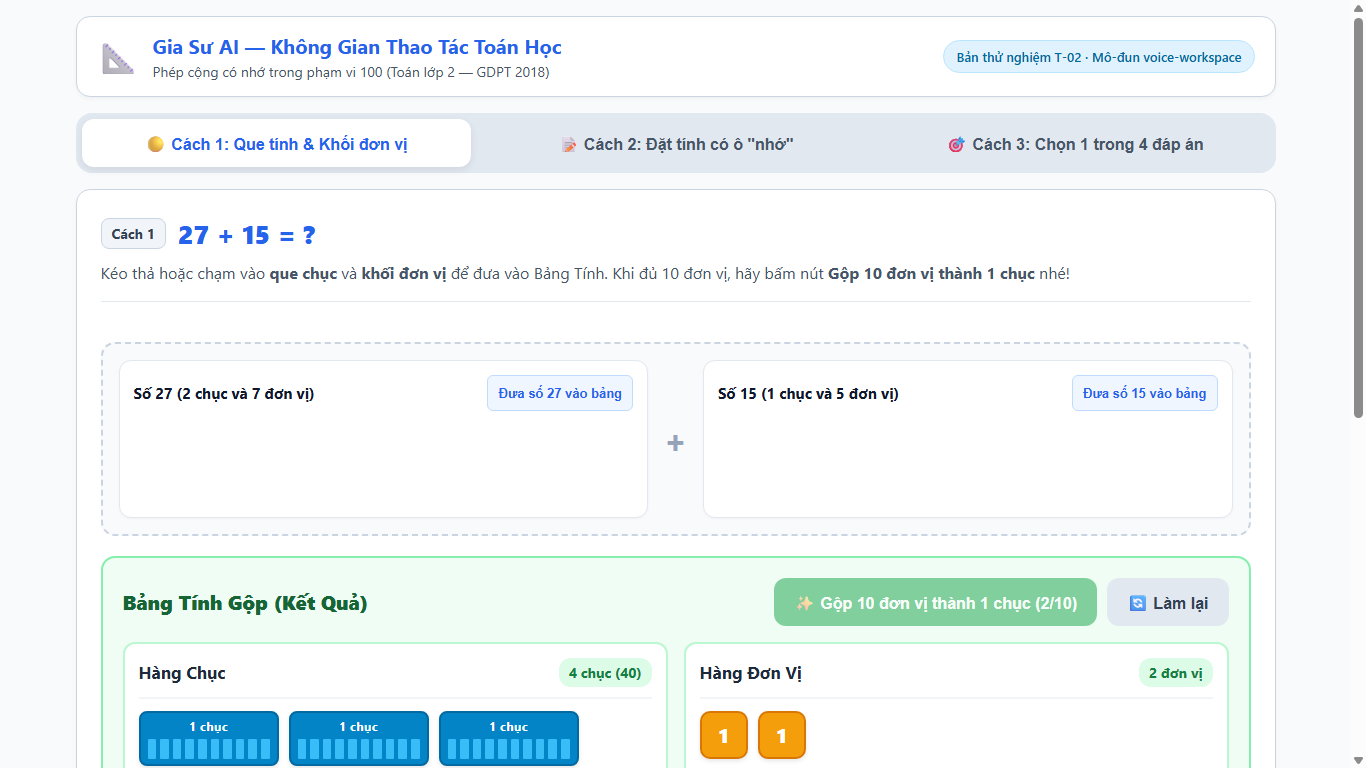
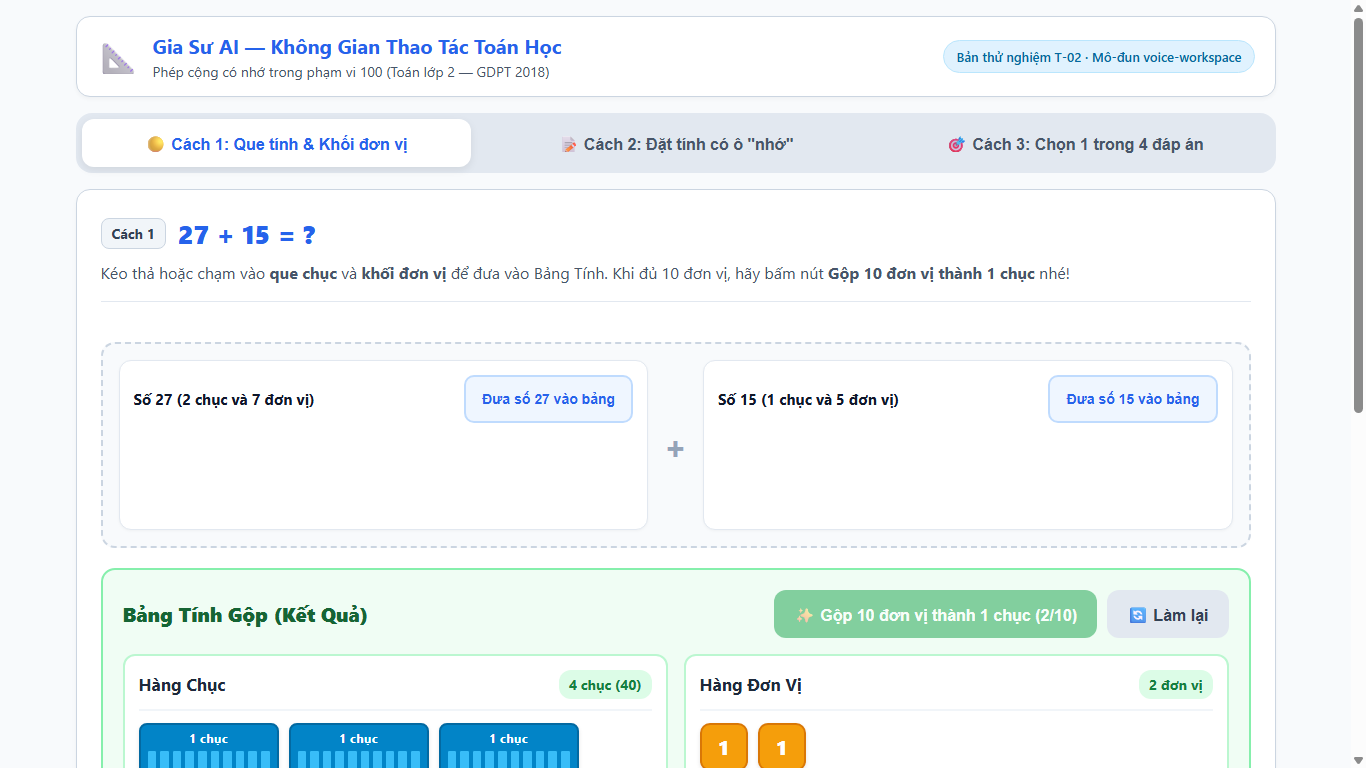
fix(voice-workspace): Sửa 4 điểm theo review của Claude trên PR #10

diff --git a/prototypes/thao-tac/js/mode1-dragdrop.js b/prototypes/thao-tac/js/mode1-dragdrop.js
@@ -357,7 +357,21 @@ class Mode1DragDrop {
   }
 
   handleDrop(item, targetZone) {
-    // Kiểm tra hợp lệ:
+    // 1. Kiểm tra nếu thả nhầm cột (khối đơn vị vào cột chục, hoặc que chục vào cột đơn vị)
+    // Theo quy định: trả vật phẩm về chỗ cũ, ghi nhận THA_NHAM_COT và không báo "sai" làm gián đoạn trẻ.
+    if ((item.type === 'unit' && targetZone === 'board-tens') || (item.type === 'ten' && targetZone === 'board-units')) {
+      this.logger.log('keo-tha', 'THA_NHAM_COT', {
+        itemId: item.id,
+        itemType: item.type,
+        attemptedZone: targetZone,
+        returnedTo: item.location,
+        note: 'Trẻ kéo nhầm cột; đã trả về vị trí cũ để tự làm lại'
+      });
+      this.render();
+      return;
+    }
+
+    // 2. Kiểm tra thả hợp lệ:
     // Que chục vào board-tens hoặc về kho source
     // Khối đơn vị vào board-units hoặc về kho source
     let valid = false;
@@ -368,14 +382,6 @@ class Mode1DragDrop {
       valid = true;
     } else if (item.type === 'unit' && (targetZone === 'board-units' || targetZone === item.source)) {
       finalLocation = targetZone;
-      valid = true;
-    } else if (targetZone === 'board-tens' && item.type === 'unit') {
-      // Nếu thả nhầm khối đơn vị vào cột chục, tự động đưa sang cột đơn vị
-      finalLocation = 'board-units';
-      valid = true;
-    } else if (targetZone === 'board-units' && item.type === 'ten') {
-      // Nếu thả nhầm que chục vào cột đơn vị, tự động đưa sang cột chục
-      finalLocation = 'board-tens';
       valid = true;
     }
 
@@ -392,7 +398,9 @@ class Mode1DragDrop {
     } else {
       this.logger.log('keo-tha', 'THA_KHONG_HOP_LE', {
         itemId: item.id,
-        attemptedZone: targetZone
+        itemType: item.type,
+        attemptedZone: targetZone,
+        returnedTo: item.location
       });
       this.render();
     }
@@ -465,9 +473,11 @@ class Mode1DragDrop {
       }
     }
 
-    this.logger.log('keo-tha', 'CHUYEN_NHANH_VAO_BANG', {
+    this.logger.log('keo-tha', 'CHUYEN_NHANH_CO_TRO_GIUP', {
       source: sourceName,
-      movedItemsCount: movedCount
+      movedItemsCount: movedCount,
+      hasAssistance: true,
+      note: 'Dùng nút trợ giúp chuyển nhanh cả số vào bảng (phân biệt với tự kéo)'
     });
 
     this.render();

diff --git a/prototypes/thao-tac/js/mode2-column.js b/prototypes/thao-tac/js/mode2-column.js
@@ -92,15 +92,15 @@ class Mode2Column {
 
             </div>
 
-            <!-- Gợi ý bước tính chuẩn GDPT -->
+            <!-- Gợi ý các bước tính gợi mở, không lộ đáp án -->
             <div class="math-steps-guide">
               <div class="step-guide-item ${this.state.activeField === 'units' ? 'guide-active' : ''}">
                 <span class="step-badge">Bước 1</span>
-                <span>Hàng đơn vị: <strong>7 + 5 = 12</strong>, viết <strong>2</strong> nhớ <strong>1</strong></span>
+                <span>Cộng hàng đơn vị trước. Được bao nhiêu? Có phải nhớ không?</span>
               </div>
               <div class="step-guide-item ${this.state.activeField === 'tens' || this.state.activeField === 'remember' ? 'guide-active' : ''}">
                 <span class="step-badge">Bước 2</span>
-                <span>Hàng chục: <strong>2 + 1 = 3</strong>, thêm 1 nhớ bằng <strong>4</strong>, viết <strong>4</strong></span>
+                <span>Cộng hàng chục, nhớ thêm số đã nhớ (nếu có) nhé.</span>
               </div>
             </div>
           </div>
@@ -235,7 +235,7 @@ class Mode2Column {
     else if (u === '2' && t === '4') {
       this.state.isCorrect = true;
       this.state.feedbackType = 'success';
-      this.state.feedbackMessage = '👏 <strong>Kết quả 42 rất đúng!</strong> Con hãy điền thêm số <strong>1</strong> vào ô nhớ ở trên để cô giáo chấm điểm tối đa nhé!';
+      this.state.feedbackMessage = '👏 <strong>Kết quả 42 rất đúng!</strong> Con hãy điền thêm số <strong>1</strong> vào ô nhớ ở trên để ghi nhớ bước làm nhé!';
       this.logger.log('dat-tinh', 'KIEM_TRA_DUNG_THIEU_NHO', { units: u, tens: t, remember: r });
     }
     // Trường hợp 3: Lỗi điển hình quên nhớ (ra kết quả 32)

diff --git a/prototypes/thao-tac/js/mode3-choice.js b/prototypes/thao-tac/js/mode3-choice.js
@@ -10,10 +10,10 @@ class Mode3Choice {
     this.logger = window.mathLogger;
 
     this.options = [
-      { id: 'A', value: 32, label: '32', isCorrect: false, hint: '💡 Con đã tính đúng hàng đơn vị rồi, nhưng quên cộng 1 nhớ vào hàng chục (2 + 1 = 3, thêm 1 nhớ phải bằng 4 nhé).' },
-      { id: 'B', value: 42, label: '42', isCorrect: true, hint: '🎉 <strong>Chính xác tuyệt đối!</strong> 27 + 15 = 42. Con đã nhớ 1 sang hàng chục rất chuẩn!' },
-      { id: 'C', value: 41, label: '41', isCorrect: false, hint: '🔍 Hàng đơn vị chưa đúng: 7 + 5 = 12 chứ không phải 11 đâu con nhé!' },
-      { id: 'D', value: 52, label: '52', isCorrect: false, hint: '🔍 Hàng chục chưa đúng: 2 + 1 = 3, thêm 1 nhớ bằng 4 thôi, không phải bằng 5 nhé!' }
+      { id: 'A', value: 32, label: '32', isCorrect: false, hint: '💡 Con đã tính đúng hàng đơn vị rồi. Ở hàng chục, con hãy kiểm tra xem mình đã cộng thêm số nhớ chưa nhé!' },
+      { id: 'B', value: 42, label: '42', isCorrect: true, hint: '🎉 <strong>Chính xác!</strong> Con đã thực hiện phép cộng có nhớ rất tốt!' },
+      { id: 'C', value: 41, label: '41', isCorrect: false, hint: '🔍 Con hãy kiểm tra lại phép tính ở hàng đơn vị (7 + 5) nhé!' },
+      { id: 'D', value: 52, label: '52', isCorrect: false, hint: '🔍 Hàng đơn vị đúng rồi! Con hãy tính lại hàng chục và cộng thêm số đã nhớ nhé!' }
     ];
 
     this.state = {

diff --git a/prototypes/thao-tac/css/style.css b/prototypes/thao-tac/css/style.css
@@ -237,20 +237,24 @@ body {
 }
 
 .btn-quick-move {
-  min-height: 36px;
-  padding: 4px 10px;
-  font-size: 13px;
-  font-weight: 600;
+  min-height: var(--touch-target-min);
+  padding: 8px 16px;
+  font-size: 14px;
+  font-weight: 700;
   color: var(--primary);
   background: #eff6ff;
-  border: 1px solid #bfdbfe;
-  border-radius: 6px;
+  border: 2px solid #bfdbfe;
+  border-radius: 10px;
   cursor: pointer;
+  display: inline-flex;
+  align-items: center;
+  justify-content: center;
   transition: all 0.15s;
 }
 
 .btn-quick-move:hover {
   background: #dbeafe;
+  border-color: var(--primary);
 }
 
 .items-holder {
